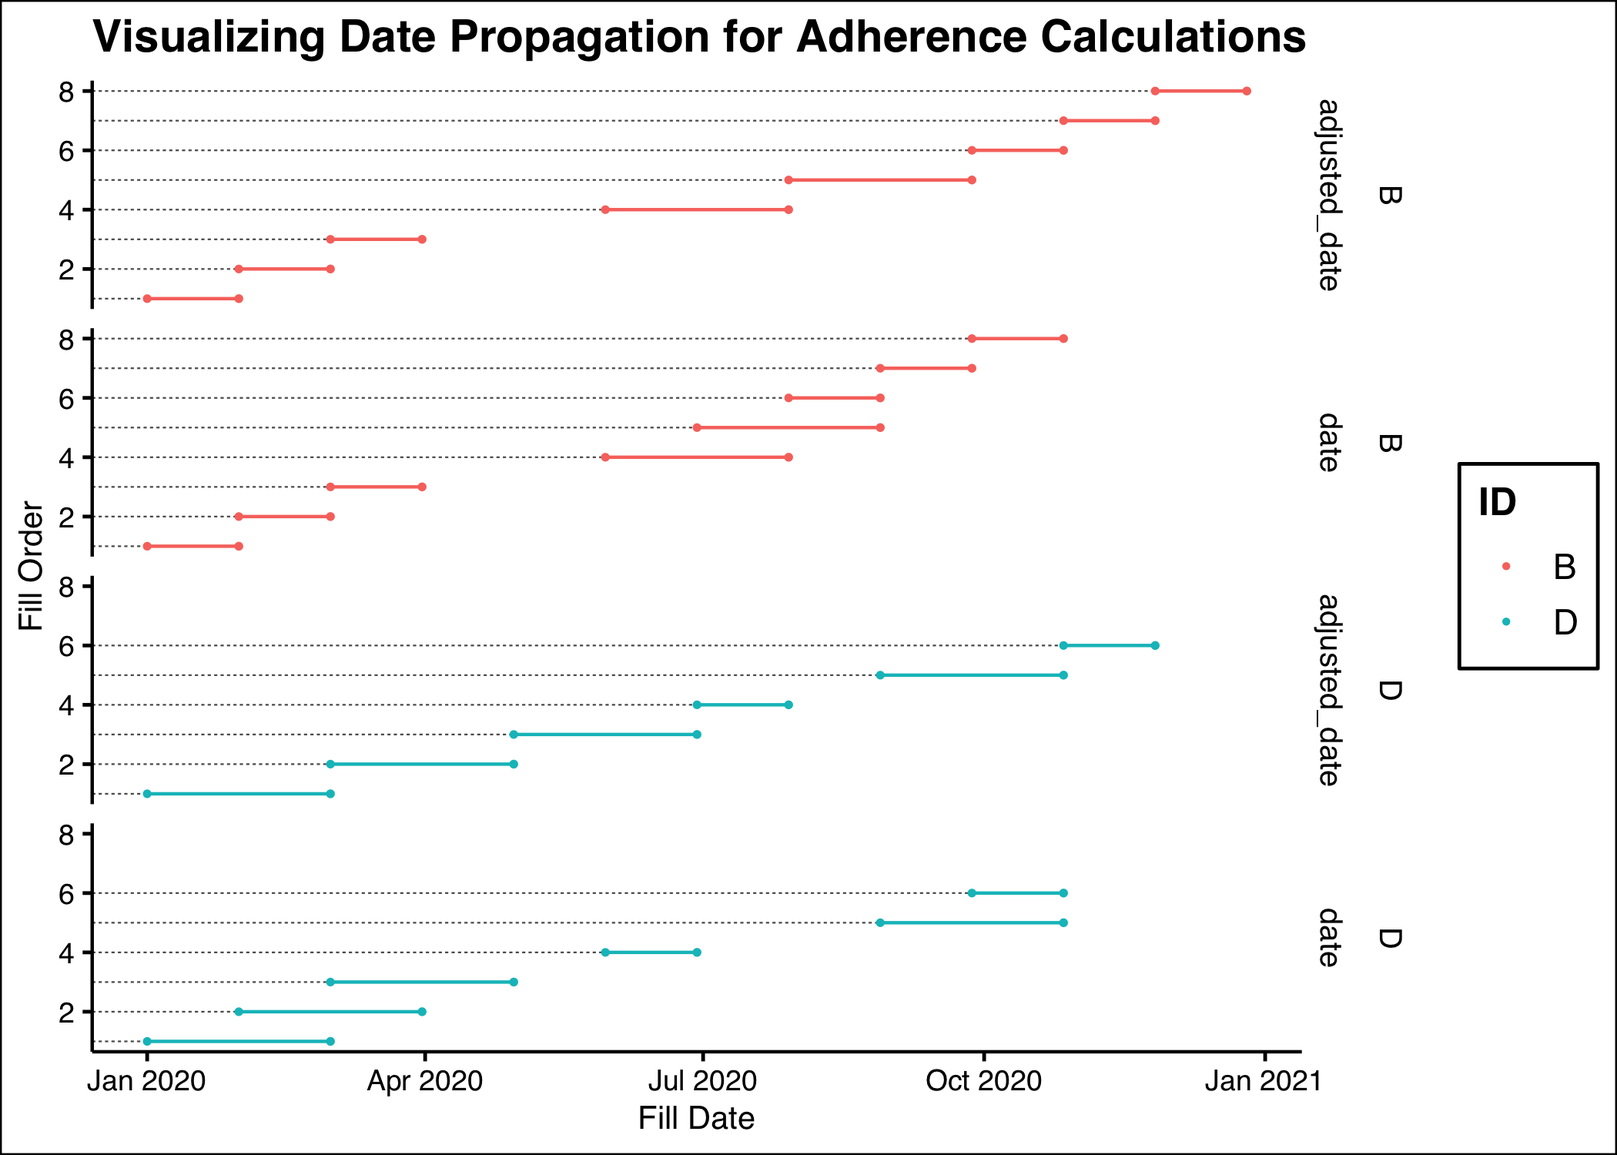
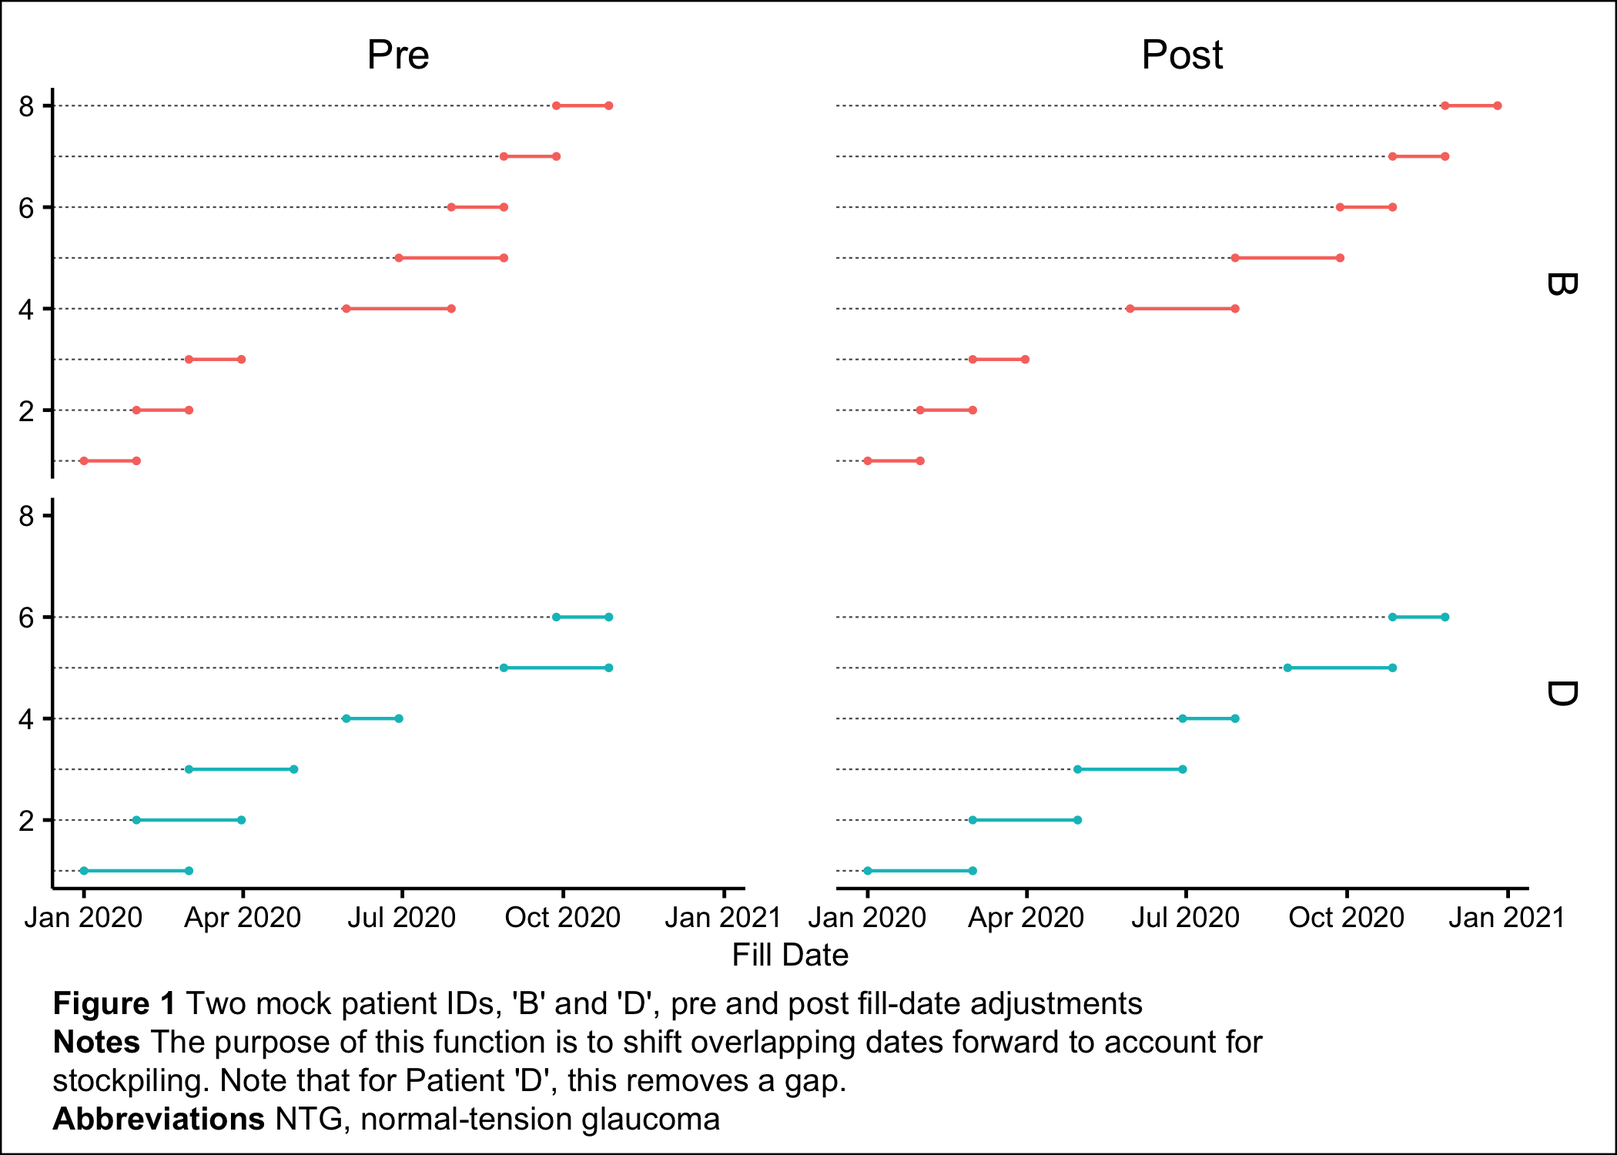
Fig update
Updating figure on webiste/tutorial.

diff --git a/docs/index.html b/docs/index.html
@@ -77,7 +77,7 @@
 <div id="adherencerx" class="section level1">
 <div class="page-header"><h1 class="hasAnchor">
 <a href="#adherencerx" class="anchor"></a>adheRenceRX</h1></div>
-<p>Check out our site <a href="https://btbeal.github.io/adheRenceRX/">adheRenceRX</a> <!-- badges: start --> <!-- badges: end --></p>
+<p>Check out our site <a href="https://btbeal.github.io/adheRenceRX/">adheRenceRX</a> … Or check out our <a href="https://github.com/btbeal/adheRenceRX/tree/master">Github</a> <!-- badges: start --> <!-- badges: end --></p>
 <p>The goal of adheRenceRX is to provide a slightly opinionated set of functions to allow researchers to assess medication adherence in the most flexible way possible. The goal was (is) to write piping-friendly verbs the “tidy” way to allow users to manipulate their data as they’d like without storing data multiple times into their environment. In tidy fashion, we aimed to create functions that did only one thing, ideally that thing is obviated by the name of the function! So, the package makes assessing adherence as flexible as possible with some key things left in the hands of the researcher. The final value is that functions without vectorised solutions (<code><a href="reference/propagate_date.html">propagate_date()</a></code> and <code><a href="reference/rank_episodes.html">rank_episodes()</a></code>) are written with C++ allowing speed and performance when you’d rather do research than run a function for an hour!</p>
 <p>This was a lot of fun to build but is still in production. If you find errors, or know things you’d like to see done differently, reach out!</p>
 <div id="installation" class="section level2">
@@ -86,6 +86,9 @@
 <p>You can install v1.0.0 from CRAN using</p>
 <div class="sourceCode" id="cb1"><pre class="downlit">
 <span class="fu"><a href="https://rdrr.io/r/utils/install.packages.html">install.packages</a></span><span class="op">(</span><span class="st">"adheRenceRX"</span><span class="op">)</span></pre></div>
+<p>… Or you can install the dev version in you’re feeling wild!</p>
+<div class="sourceCode" id="cb2"><pre class="downlit">
+<span class="fu">devtools</span><span class="fu">::</span><span class="fu"><a href="https://devtools.r-lib.org//reference/remote-reexports.html">install_github</a></span><span class="op">(</span><span class="st">"btbeal/adheRenceRX"</span>, ref <span class="op">=</span> <span class="st">"Dev"</span><span class="op">)</span></pre></div>
 </div>
 <div id="overview" class="section level2">
 <h2 class="hasAnchor">
@@ -107,8 +110,9 @@
 <div id="examples" class="section level2">
 <h2 class="hasAnchor">
 <a href="#examples" class="anchor"></a>Examples</h2>
-<p>More examples of use can be found on within each functions documentation; however, this should provide a decent overview of how the package is to be used.</p>
-<div class="sourceCode" id="cb2"><pre class="downlit">
+<p>More examples of use can be found on within each functions documentation; however, this should provide a decent idea of intended package workflow.</p>
+<p>Take a look at our <code>toy_claims</code> data loaded with the package. Notice that there is a patient identifier, a fill date, and a days supply. Often times these can be messy. Ideally, you’ll have cleaned this up before you need our package. The very next thing to be done is to adjust these fill dates so that they are not overlapping. We can do that with <code><a href="reference/propagate_date.html">propagate_date()</a></code>.</p>
+<div class="sourceCode" id="cb3"><pre class="downlit">
 <span class="kw"><a href="https://rdrr.io/r/base/library.html">library</a></span><span class="op">(</span><span class="va"><a href="https://github.com/btbeal/adheRenceRX">adheRenceRX</a></span><span class="op">)</span>
 <span class="kw"><a href="https://rdrr.io/r/base/library.html">library</a></span><span class="op">(</span><span class="va"><a href="https://dplyr.tidyverse.org">dplyr</a></span><span class="op">)</span>
 <span class="kw"><a href="https://rdrr.io/r/base/library.html">library</a></span><span class="op">(</span><span class="va">magrittr</span><span class="op">)</span>
@@ -141,10 +145,11 @@
 <span class="co">#&gt; 14 D     2020-09-27          30 2020-10-27</span></pre></div>
 <p>Notice that several rows have been pushed forward to account for overlaps in date. Also notice that the output changes the date and days supply variable to <code>date</code> and <code>days_supply</code> while adding an <code>adjusted_date</code> variable. The <code>adjusted_date</code> variable is used by some of the other functions so it is important to complete this step first.</p>
 <p>To get a visual of what is happening here…</p>
-<div class="sourceCode" id="cb3"><pre class="downlit">
+<div class="sourceCode" id="cb4"><pre class="downlit">
 <span class="kw"><a href="https://rdrr.io/r/base/library.html">library</a></span><span class="op">(</span><span class="va"><a href="https://github.com/hrbrmstr/ggalt">ggalt</a></span><span class="op">)</span>
 <span class="kw"><a href="https://rdrr.io/r/base/library.html">library</a></span><span class="op">(</span><span class="va"><a href="https://tidyr.tidyverse.org">tidyr</a></span><span class="op">)</span>
 <span class="kw"><a href="https://rdrr.io/r/base/library.html">library</a></span><span class="op">(</span><span class="va"><a href="http://lubridate.tidyverse.org">lubridate</a></span><span class="op">)</span>
+<span class="kw"><a href="https://rdrr.io/r/base/library.html">library</a></span><span class="op">(</span><span class="va"><a href="https://wilkelab.org/ggtext">ggtext</a></span><span class="op">)</span>
 <span class="va">toy_claims</span> <span class="op">%&gt;%</span> 
   <span class="fu"><a href="https://dplyr.tidyverse.org/reference/filter.html">filter</a></span><span class="op">(</span><span class="va">ID</span> <span class="op">%in%</span> <span class="fu"><a href="https://rdrr.io/r/base/c.html">c</a></span><span class="op">(</span><span class="st">"B"</span>, <span class="st">"D"</span><span class="op">)</span><span class="op">)</span> <span class="op">%&gt;%</span> 
   <span class="fu"><a href="https://dplyr.tidyverse.org/reference/group_by.html">group_by</a></span><span class="op">(</span><span class="va">ID</span><span class="op">)</span> <span class="op">%&gt;%</span> 
@@ -153,27 +158,39 @@
   <span class="fu"><a href="https://tidyr.tidyverse.org/reference/pivot_longer.html">pivot_longer</a></span><span class="op">(</span>cols <span class="op">=</span> <span class="fu"><a href="https://rdrr.io/r/base/c.html">c</a></span><span class="op">(</span><span class="st">"date"</span>, <span class="st">"adjusted_date"</span><span class="op">)</span>, 
                names_to <span class="op">=</span> <span class="st">"type"</span>, 
                values_to <span class="op">=</span> <span class="st">"date"</span><span class="op">)</span> <span class="op">%&gt;%</span> 
+  <span class="fu"><a href="https://dplyr.tidyverse.org/reference/mutate.html">mutate</a></span><span class="op">(</span>type <span class="op">=</span> <span class="fu"><a href="https://dplyr.tidyverse.org/reference/if_else.html">if_else</a></span><span class="op">(</span><span class="va">type</span> <span class="op">==</span> <span class="st">"date"</span>, <span class="st">"Pre"</span>, <span class="st">"Post"</span><span class="op">)</span>,
+         type <span class="op">=</span> <span class="fu"><a href="https://rdrr.io/r/base/factor.html">factor</a></span><span class="op">(</span><span class="va">type</span>, levels <span class="op">=</span> <span class="fu"><a href="https://rdrr.io/r/base/c.html">c</a></span><span class="op">(</span><span class="st">"Pre"</span>, <span class="st">"Post"</span><span class="op">)</span><span class="op">)</span><span class="op">)</span> <span class="op">%&gt;%</span> 
   <span class="fu"><a href="https://dplyr.tidyverse.org/reference/group_by.html">group_by</a></span><span class="op">(</span><span class="va">ID</span>, <span class="va">type</span><span class="op">)</span> <span class="op">%&gt;%</span> 
   <span class="fu"><a href="https://dplyr.tidyverse.org/reference/mutate.html">mutate</a></span><span class="op">(</span>end <span class="op">=</span> <span class="va">date</span> <span class="op">+</span> <span class="fu"><a href="http://lubridate.tidyverse.org/reference/period.html">days</a></span><span class="op">(</span><span class="va">days_supply</span><span class="op">)</span>,
          d_rank <span class="op">=</span> <span class="fu"><a href="https://rdrr.io/r/base/rank.html">rank</a></span><span class="op">(</span><span class="va">date</span><span class="op">)</span><span class="op">)</span> <span class="op">%&gt;%</span> 
   <span class="fu">ggplot</span><span class="op">(</span><span class="op">)</span> <span class="op">+</span>
   <span class="fu"><a href="https://rdrr.io/pkg/ggalt/man/geom_dumbbell.html">geom_dumbbell</a></span><span class="op">(</span><span class="fu">aes</span><span class="op">(</span>x <span class="op">=</span> <span class="va">date</span>, xend <span class="op">=</span> <span class="va">end</span>, y <span class="op">=</span> <span class="va">d_rank</span>, color <span class="op">=</span> <span class="va">ID</span><span class="op">)</span>, dot_guide <span class="op">=</span> <span class="cn">TRUE</span><span class="op">)</span> <span class="op">+</span>
   <span class="fu">ggthemes</span><span class="fu">::</span><span class="fu"><a href="https://rdrr.io/pkg/ggthemes/man/theme_clean.html">theme_clean</a></span><span class="op">(</span><span class="op">)</span> <span class="op">+</span>
-  <span class="fu">theme</span><span class="op">(</span>
-    panel.grid.major <span class="op">=</span> <span class="fu">element_blank</span><span class="op">(</span><span class="op">)</span>,
-    panel.grid.minor <span class="op">=</span> <span class="fu">element_blank</span><span class="op">(</span><span class="op">)</span>,
-    panel.grid.major.y <span class="op">=</span> <span class="fu">element_blank</span><span class="op">(</span><span class="op">)</span>
+  <span class="fu">theme</span><span class="op">(</span>text<span class="op">=</span><span class="fu">element_text</span><span class="op">(</span>size<span class="op">=</span><span class="fl">16</span>,  family<span class="op">=</span><span class="st">"Arial"</span><span class="op">)</span>,
+        axis.title.y <span class="op">=</span> <span class="fu">element_blank</span><span class="op">(</span><span class="op">)</span>,
+        legend.text<span class="op">=</span><span class="fu">element_text</span><span class="op">(</span>size<span class="op">=</span><span class="fl">14</span>, family<span class="op">=</span><span class="st">"Arial"</span><span class="op">)</span>,
+        legend.title<span class="op">=</span><span class="fu">element_text</span><span class="op">(</span>family <span class="op">=</span> <span class="st">"Arial"</span><span class="op">)</span>,
+        plot.caption <span class="op">=</span> <span class="fu"><a href="https://wilkelab.org/ggtext/reference/element_markdown.html">element_markdown</a></span><span class="op">(</span>size <span class="op">=</span> <span class="fl">10</span>, family <span class="op">=</span> <span class="st">"Arial"</span>, lineheight <span class="op">=</span> <span class="fl">1.2</span>, hjust <span class="op">=</span> <span class="fl">0</span><span class="op">)</span>,
+        plot.caption.position <span class="op">=</span> <span class="st">"panel"</span>,
+        panel.grid.major <span class="op">=</span> <span class="fu">element_blank</span><span class="op">(</span><span class="op">)</span>,
+        panel.grid.minor <span class="op">=</span> <span class="fu">element_blank</span><span class="op">(</span><span class="op">)</span>,
+        panel.grid.major.y <span class="op">=</span> <span class="fu">element_blank</span><span class="op">(</span><span class="op">)</span>,
+        panel.spacing.x <span class="op">=</span> <span class="fu">unit</span><span class="op">(</span><span class="fl">10</span>, <span class="st">"mm"</span><span class="op">)</span>
   <span class="op">)</span> <span class="op">+</span>
-  <span class="fu">facet_grid</span><span class="op">(</span>rows <span class="op">=</span> <span class="fu"><a href="https://dplyr.tidyverse.org/reference/vars.html">vars</a></span><span class="op">(</span><span class="va">ID</span>, <span class="va">type</span><span class="op">)</span><span class="op">)</span> <span class="op">+</span>
+  <span class="fu">facet_grid</span><span class="op">(</span><span class="va">ID</span> <span class="op">~</span> <span class="va">type</span><span class="op">)</span> <span class="op">+</span>
+  <span class="fu">guides</span><span class="op">(</span>color <span class="op">=</span> <span class="cn">FALSE</span><span class="op">)</span> <span class="op">+</span>
   <span class="fu">labs</span><span class="op">(</span>
     y <span class="op">=</span> <span class="st">"Fill Order"</span>,
     x <span class="op">=</span> <span class="st">"Fill Date"</span>,
-    title <span class="op">=</span> <span class="st">"Visualizing Date Propagation for Adherence Calculations"</span>
+    caption <span class="op">=</span> <span class="st">"&lt;b&gt;Figure 1&lt;/b&gt; Two mock patient IDs, 'B' and 'D', pre and post fill-date adjustments&lt;br&gt;
+      &lt;b&gt;Notes&lt;/b&gt; The purpose of this function is to shift overlapping dates forward to account for &lt;br&gt;
+      stockpiling. Note that for Patient 'D', this removes a gap. &lt;br&gt;
+      &lt;b&gt;Abbreviations&lt;/b&gt; NTG, normal-tension glaucoma"</span>
   <span class="op">)</span></pre></div>
 <p><img src="reference/figures/README-visual-1.png" width="100%"></p>
 <p>Notice how the overlapping dates are pushed forward - in the case of patient D, this removes what would have otherwise been counted as a gap between their third and fourth fill and accounts for stockpiling!</p>
-<p>Once the dates have been adjusted, we can identify gaps in therapy with <code><a href="reference/identify_gaps.html">identify_gaps()</a></code> or summarise them with <code><a href="reference/summarise_gaps.html">summarise_gaps()</a></code>.</p>
-<div class="sourceCode" id="cb4"><pre class="downlit">
+<p>Once the dates have been adjusted, we can identify gaps in therapy with <code><a href="reference/identify_gaps.html">identify_gaps()</a></code> or summarise them with <code><a href="reference/summarise_gaps.html">summarise_gaps()</a></code>. Note, we must identify our gaps in therapy to move forward because our calculations depend on those gaps as well as the episodes of care function. Again, this structure revolves around the one-function-one-task principle.</p>
+<div class="sourceCode" id="cb5"><pre class="downlit">
 <span class="co"># The same code from above</span>
 <span class="va">toy_claims</span> <span class="op">%&gt;%</span> 
   <span class="fu"><a href="https://dplyr.tidyverse.org/reference/filter.html">filter</a></span><span class="op">(</span><span class="va">ID</span> <span class="op">%in%</span> <span class="fu"><a href="https://rdrr.io/r/base/c.html">c</a></span><span class="op">(</span><span class="st">"B"</span>, <span class="st">"D"</span><span class="op">)</span><span class="op">)</span> <span class="op">%&gt;%</span> 
@@ -215,8 +232,8 @@
 <span class="co">#&gt;   &lt;chr&gt;       &lt;dbl&gt;</span>
 <span class="co">#&gt; 1 B              60</span>
 <span class="co">#&gt; 2 D              30</span></pre></div>
-<p>With the gaps identified, we can check for episodes of care using our <code><a href="reference/rank_episodes.html">rank_episodes()</a></code> functions. Note that this function assumes that you’ve propagated your dates appropriately and identified all gaps. You can then tell our function what can be considered a permissible gap, and everything after a gap that large or more will be considered the next episode! Let me show you.</p>
-<div class="sourceCode" id="cb5"><pre class="downlit">
+<p>With the gaps identified, we can check for episodes of care using our <code><a href="reference/rank_episodes.html">rank_episodes()</a></code> functions. Note that this function assumes that you’ve propagated your dates appropriately and identified all gaps. You can then tell our function what can be considered a permissible gap, and everything after a gap that large or more will be considered the next episode! This function is useful for medication persistence questions as well given that you can classify gaps larger than a given <code>.permissable_gap</code> as a new episode and then group by those episodes. Let me show you.</p>
+<div class="sourceCode" id="cb6"><pre class="downlit">
 <span class="co"># The same code from above</span>
 <span class="va">toy_claims</span> <span class="op">%&gt;%</span> 
   <span class="fu"><a href="https://dplyr.tidyverse.org/reference/filter.html">filter</a></span><span class="op">(</span><span class="va">ID</span> <span class="op">%in%</span> <span class="fu"><a href="https://rdrr.io/r/base/c.html">c</a></span><span class="op">(</span><span class="st">"B"</span>, <span class="st">"D"</span><span class="op">)</span><span class="op">)</span> <span class="op">%&gt;%</span> 
@@ -245,7 +262,7 @@
 <span class="co">#&gt; 13 D     2020-08-28          60 2020-08-28       30       2</span>
 <span class="co">#&gt; 14 D     2020-09-27          30 2020-10-27        0       2</span></pre></div>
 <p>Finally, an actual adherence calculation. This is fairly straightforward since the bulk of the work has been done adjusting your dates and then appropriately identifying the gaps in therapy. Still, more functions = more fun!</p>
-<div class="sourceCode" id="cb6"><pre class="downlit">
+<div class="sourceCode" id="cb7"><pre class="downlit">
 <span class="va">toy_claims</span> <span class="op">%&gt;%</span> 
   <span class="fu"><a href="https://dplyr.tidyverse.org/reference/group_by.html">group_by</a></span><span class="op">(</span><span class="va">ID</span><span class="op">)</span> <span class="op">%&gt;%</span> 
   <span class="fu"><a href="reference/propagate_date.html">propagate_date</a></span><span class="op">(</span>.date_var <span class="op">=</span> <span class="va">date</span>, .days_supply_var <span class="op">=</span> <span class="va">days_supply</span><span class="op">)</span> <span class="op">%&gt;%</span> 

diff --git a/README.md b/README.md
@@ -4,6 +4,8 @@
 # adheRenceRX
 
 Check out our site [adheRenceRX](https://btbeal.github.io/adheRenceRX/)
+… Or check out our
+[Github](https://github.com/btbeal/adheRenceRX/tree/master)
 <!-- badges: start --> <!-- badges: end -->
 
 The goal of adheRenceRX is to provide a slightly opinionated set of
@@ -28,6 +30,12 @@ You can install v1.0.0 from CRAN using
 
 ``` r
 install.packages("adheRenceRX")
+```
+
+… Or you can install the dev version in you’re feeling wild\!
+
+``` r
+devtools::install_github("btbeal/adheRenceRX", ref = "Dev")
 ```
 
 ## Overview
@@ -62,8 +70,15 @@ is subject to change in the future.
 ## Examples
 
 More examples of use can be found on within each functions
-documentation; however, this should provide a decent overview of how the
-package is to be used.
+documentation; however, this should provide a decent idea of intended
+package workflow.
+
+Take a look at our `toy_claims` data loaded with the package. Notice
+that there is a patient identifier, a fill date, and a days supply.
+Often times these can be messy. Ideally, you’ll have cleaned this up
+before you need our package. The very next thing to be done is to adjust
+these fill dates so that they are not overlapping. We can do that with
+`propagate_date()`.
 
 ``` r
 library(adheRenceRX)
@@ -110,6 +125,7 @@ To get a visual of what is happening here…
 library(ggalt)
 library(tidyr)
 library(lubridate)
+library(ggtext)
 toy_claims %>% 
   filter(ID %in% c("B", "D")) %>% 
   group_by(ID) %>% 
@@ -118,22 +134,34 @@ toy_claims %>%
   pivot_longer(cols = c("date", "adjusted_date"), 
                names_to = "type", 
                values_to = "date") %>% 
+  mutate(type = if_else(type == "date", "Pre", "Post"),
+         type = factor(type, levels = c("Pre", "Post"))) %>% 
   group_by(ID, type) %>% 
   mutate(end = date + days(days_supply),
          d_rank = rank(date)) %>% 
   ggplot() +
   geom_dumbbell(aes(x = date, xend = end, y = d_rank, color = ID), dot_guide = TRUE) +
   ggthemes::theme_clean() +
-  theme(
-    panel.grid.major = element_blank(),
-    panel.grid.minor = element_blank(),
-    panel.grid.major.y = element_blank()
+  theme(text=element_text(size=16,  family="Arial"),
+        axis.title.y = element_blank(),
+        legend.text=element_text(size=14, family="Arial"),
+        legend.title=element_text(family = "Arial"),
+        plot.caption = element_markdown(size = 10, family = "Arial", lineheight = 1.2, hjust = 0),
+        plot.caption.position = "panel",
+        panel.grid.major = element_blank(),
+        panel.grid.minor = element_blank(),
+        panel.grid.major.y = element_blank(),
+        panel.spacing.x = unit(10, "mm")
   ) +
-  facet_grid(rows = vars(ID, type)) +
+  facet_grid(ID ~ type) +
+  guides(color = FALSE) +
   labs(
     y = "Fill Order",
     x = "Fill Date",
-    title = "Visualizing Date Propagation for Adherence Calculations"
+    caption = "<b>Figure 1</b> Two mock patient IDs, 'B' and 'D', pre and post fill-date adjustments<br>
+      <b>Notes</b> The purpose of this function is to shift overlapping dates forward to account for <br>
+      stockpiling. Note that for Patient 'D', this removes a gap. <br>
+      <b>Abbreviations</b> NTG, normal-tension glaucoma"
   )
 ```
 
@@ -144,7 +172,11 @@ patient D, this removes what would have otherwise been counted as a gap
 between their third and fourth fill and accounts for stockpiling\!
 
 Once the dates have been adjusted, we can identify gaps in therapy with
-`identify_gaps()` or summarise them with `summarise_gaps()`.
+`identify_gaps()` or summarise them with `summarise_gaps()`. Note, we
+must identify our gaps in therapy to move forward because our
+calculations depend on those gaps as well as the episodes of care
+function. Again, this structure revolves around the
+one-function-one-task principle.
 
 ``` r
 # The same code from above
@@ -195,7 +227,10 @@ With the gaps identified, we can check for episodes of care using our
 propagated your dates appropriately and identified all gaps. You can
 then tell our function what can be considered a permissible gap, and
 everything after a gap that large or more will be considered the next
-episode\! Let me show you.
+episode\! This function is useful for medication persistence questions
+as well given that you can classify gaps larger than a given
+`.permissable_gap` as a new episode and then group by those episodes.
+Let me show you.
 
 ``` r
 # The same code from above
